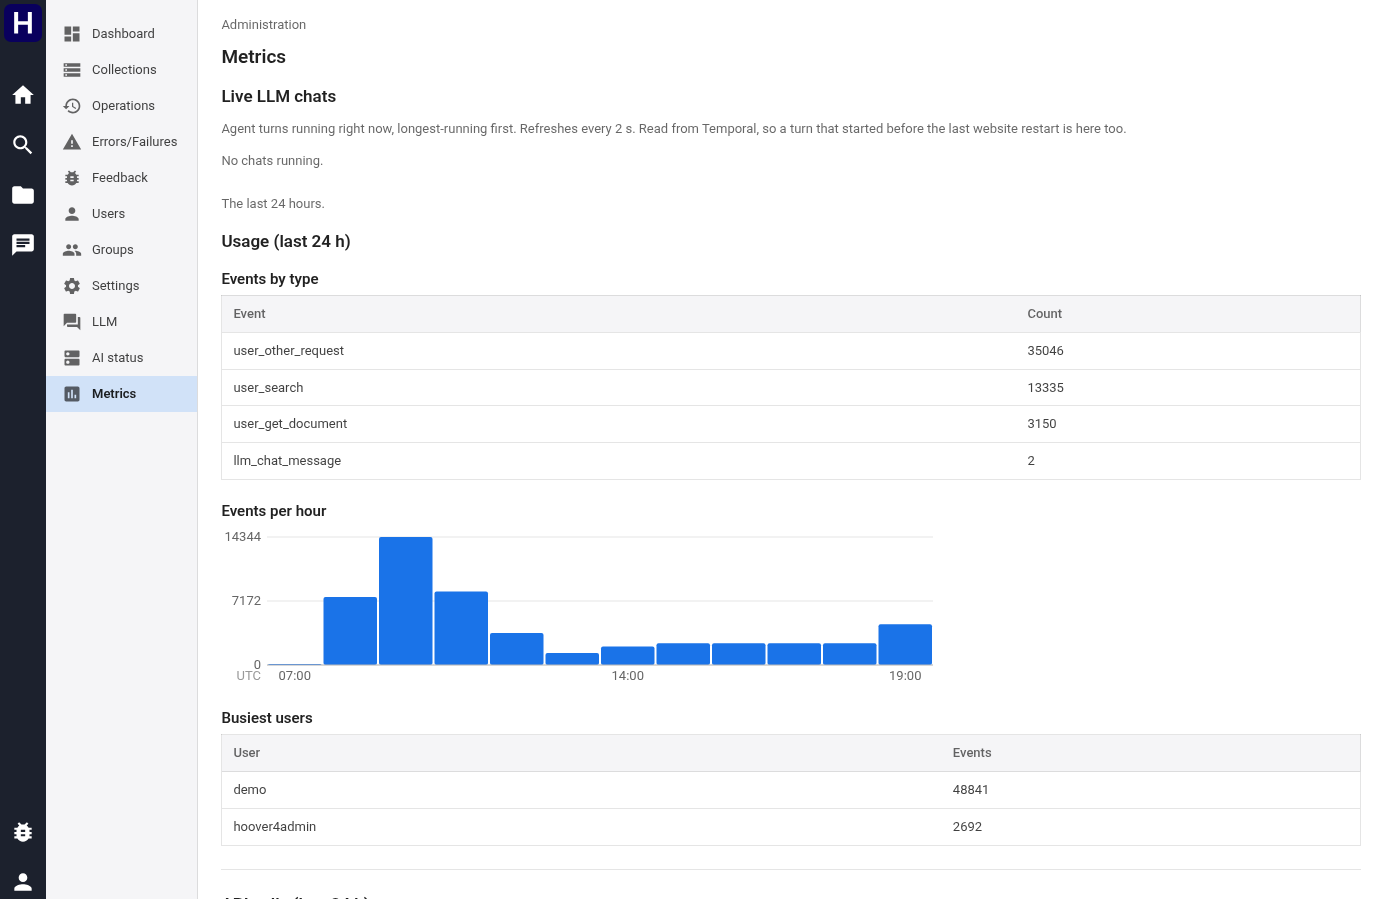
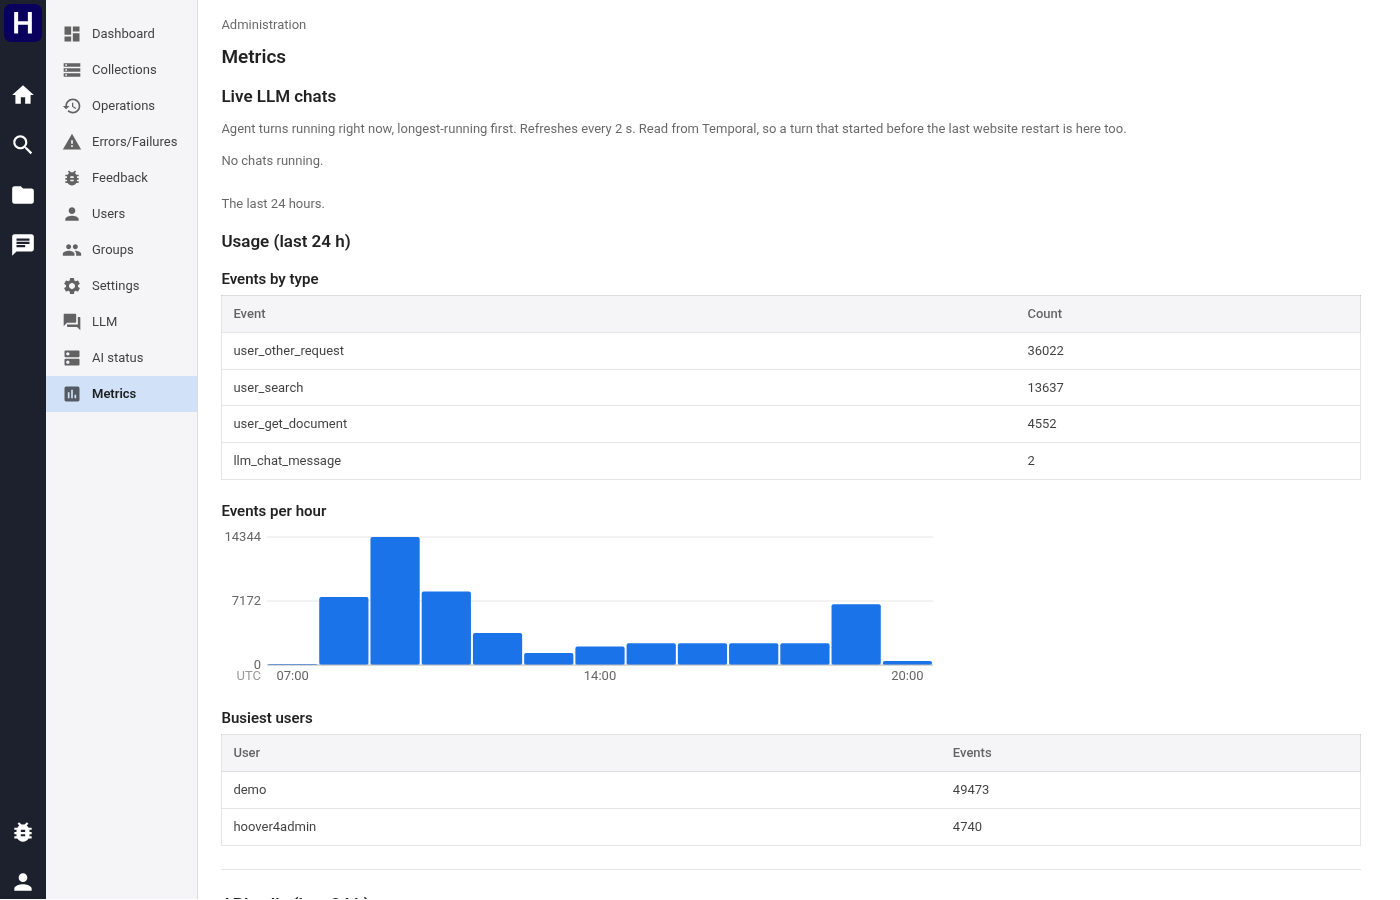
finish administration documentation captures

diff --git a/docs/user-manual/Admin_Manual.md b/docs/user-manual/Admin_Manual.md
@@ -153,9 +153,6 @@ is stale, and a **Refresh catalog** button. **Models** shows, read only, the mod
 turns and the model of titles, summaries and board work, which `hoover4.ini` sets, and the
 **Thinking** switch. **Catalog** lists every model the provider offers with usage counts.
 
-<a href="img/admin-llm.png"><img src="img/admin-llm.png" alt="Admin, LLM" align="right" width="560"></a>
-
-<br clear="all">
 
 ## AI status
 
@@ -173,7 +170,7 @@ Live chat turns, then usage over the last 24 hours: events by type, events per h
 busiest users. Events record who, which route or function, and when, never a URL or a query
 string.
 
-<a href="img/admin-metrics.png"><img src="img/admin-metrics.png" alt="Admin, metrics" align="right" width="560"></a>
+<a href="img/admin-metrics.png"><img src="img/admin-metrics.png" alt="Top of Metrics with live chats and daily usage" align="right" width="560"></a>
 
 <br clear="all">
 
